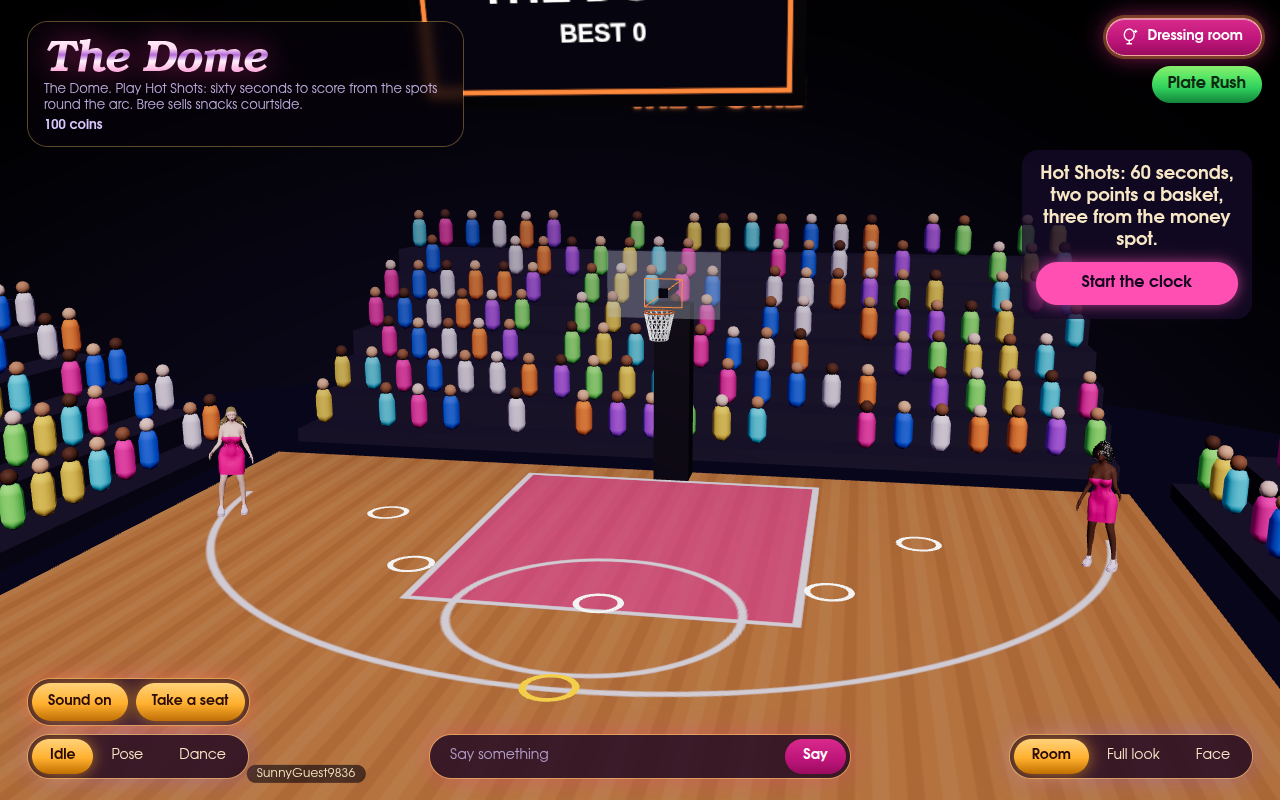
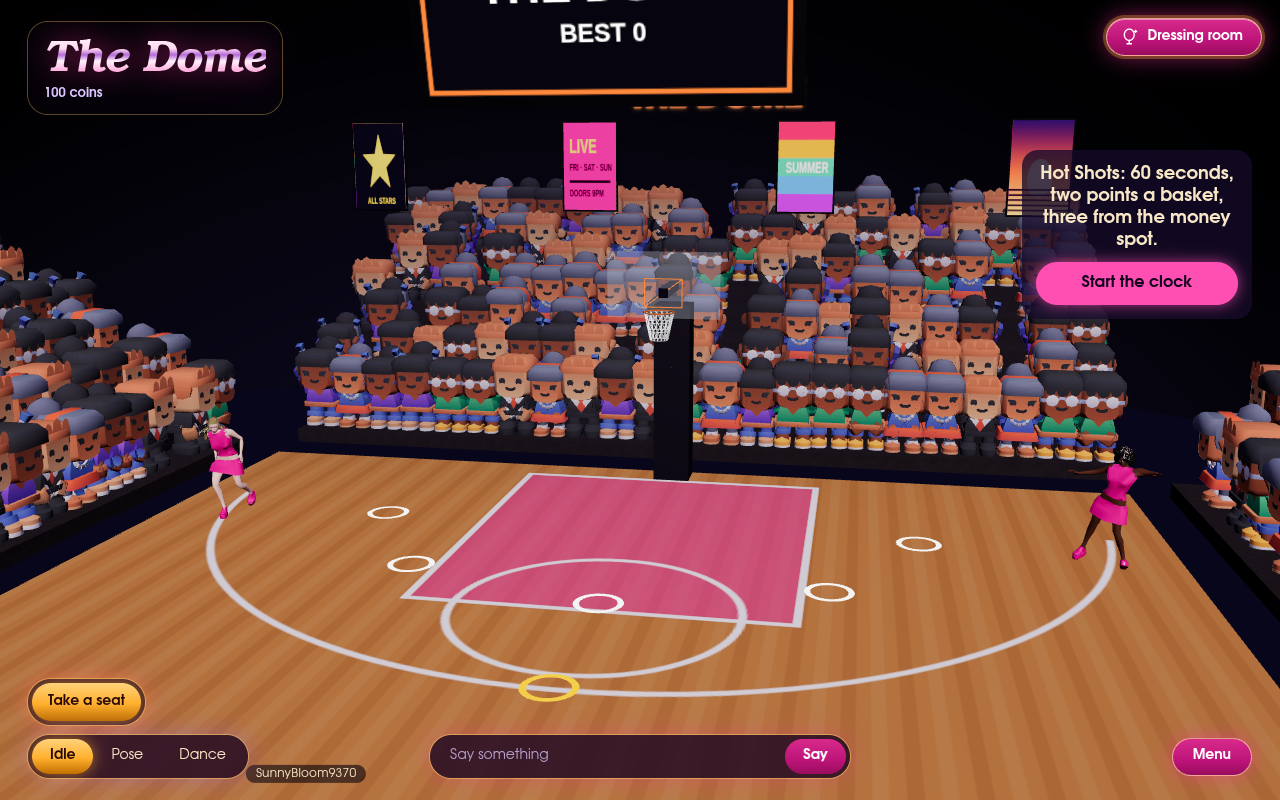
fix(rooms): thin the stands' Kenney fans to stay inside the render budget

diff --git a/src/client/rooms/shared/Stands.tsx b/src/client/rooms/shared/Stands.tsx
@@ -35,7 +35,10 @@ const WAVE_SECONDS = 7;
 
 const STEP_DEPTH = 0.9;
 const STEP_RISE = 0.5;
-const SEAT_GAP = 0.65;
+/** A Kenney fan is about a meter across, so seats are wider apart than the old pills (and cost ~700 triangles each). */
+const SEAT_GAP = 1;
+/** Share of `fill` that really sit down, to stay inside the render budget. */
+const CROWD_THIN = 0.75;
 type Fan = {
   x: number;
   y: number;
@@ -130,7 +133,7 @@ export function Stands({
         });
         const seats = Math.floor(bank.length / SEAT_GAP);
         for (let k = 0; k < seats; k++) {
-          if (rand() > fill) continue;
+          if (rand() > fill * CROWD_THIN) continue;
           const along = (k - (seats - 1) / 2) * SEAT_GAP;
           const [fx, fz] = place(along, back);
           fans.push({
